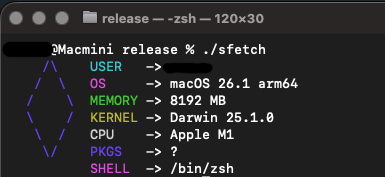
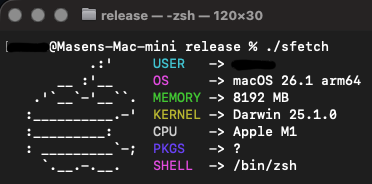
fix mac ascii and updated img

diff --git a/src/main.rs b/src/main.rs
@@ -11,7 +11,7 @@ use owo_colors::OwoColorize;
 #[allow(dead_code)]
 const LINUX_ASCII_COLOR: (u8, u8, u8) = (255, 215, 0);      
 #[allow(dead_code)]
-const MACOS_ASCII_COLOR: (u8, u8, u8) = (147, 112, 219);    
+const MACOS_ASCII_COLOR: (u8, u8, u8) = (255, 255, 255);    
 #[allow(dead_code)]
 const WINDOWS_ASCII_COLOR: (u8, u8, u8) = (0, 120, 215);    
 #[allow(dead_code)]
